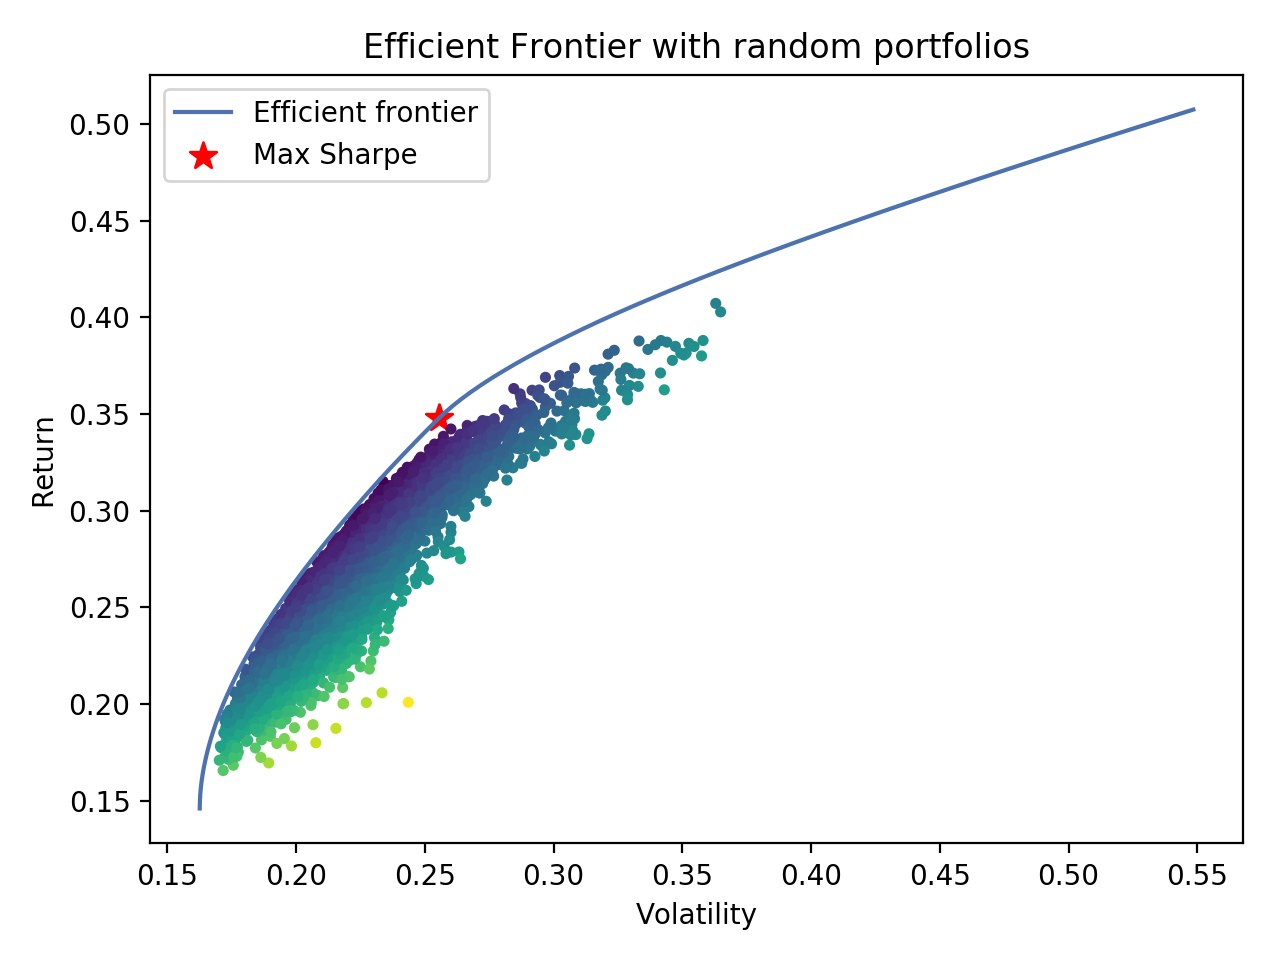
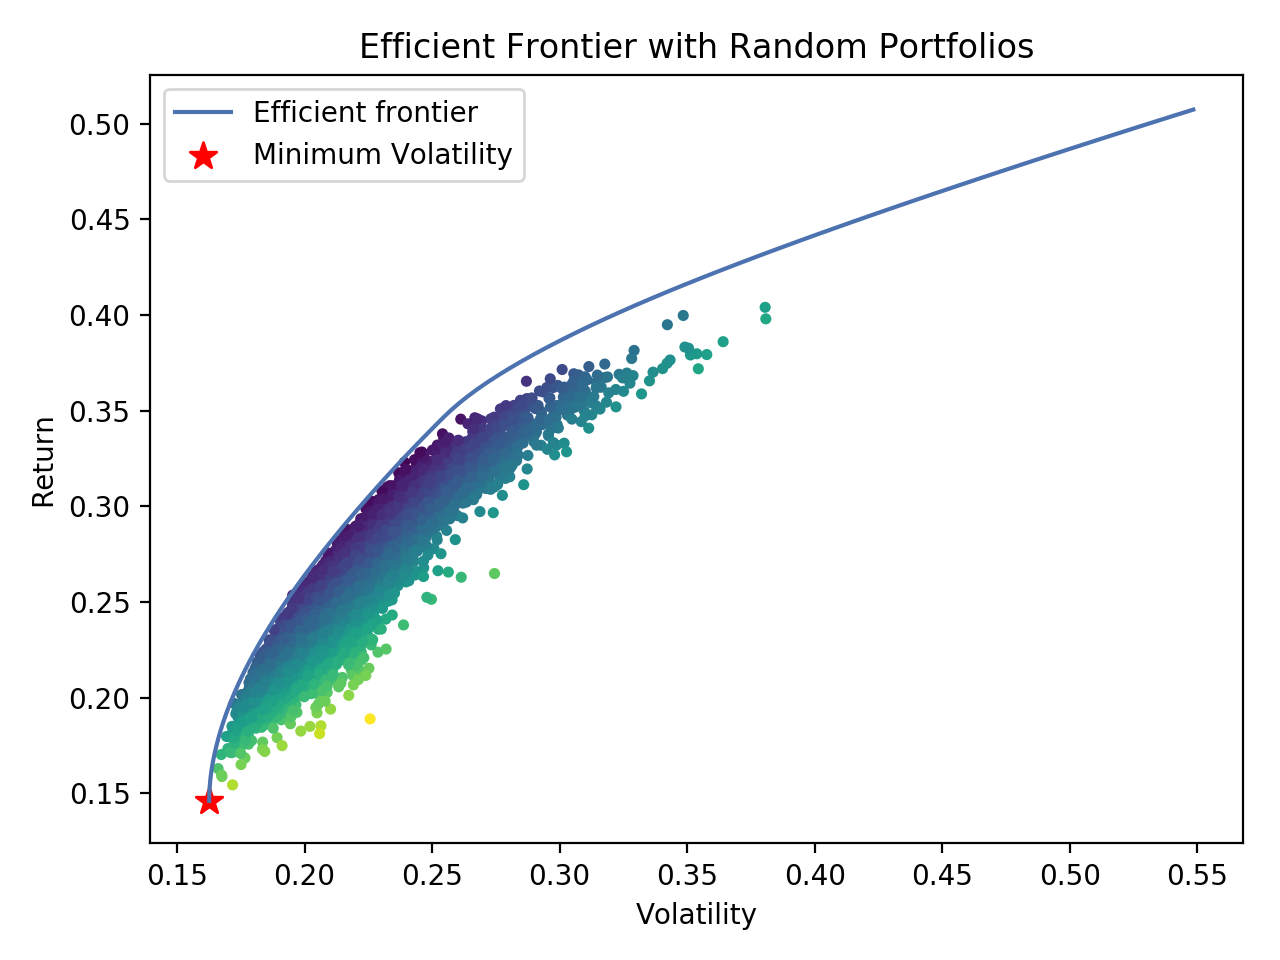
Updated weights using min volatility

diff --git a/stock_portfolio/efficient_frontier.py b/stock_portfolio/efficient_frontier.py
@@ -9,6 +9,9 @@ from pypfopt import objective_functions
 from pypfopt.discrete_allocation import DiscreteAllocation, get_latest_prices
 from pandas_datareader import data as pdr
 import yfinance as yf
+import sys
+sys.path.insert(0, "../datasets")
+import shift
 
 yf.pdr_override()
 import pandas as pd
@@ -16,16 +19,17 @@ stocks = "AAPL MSFT AMZN GOOGL FB TSLA BRK-A JPM V JNJ"
 
 
 def plot_ef(ef, method=None):
-    fig, ax = plt.subplots()
-    plotting.plot_efficient_frontier(ef, ax=ax)
+    # fig, ax = plt.subplots()
+    # plotting.plot_efficient_frontier(ef, ax=ax)
     ef.add_constraint(lambda w: w[0]+w[1]+w[2]+w[3]+w[4]+w[5]+w[6]+w[7]+w[8]+w[9] == 1)
-    weights = ef.max_sharpe()
+    ef.add_objective(objective_functions.L2_reg, gamma=0.1)
+    weights = ef.min_volatility()
     cleaned_weights = ef.clean_weights()
     print(cleaned_weights)
     optimal, volatility, _ = ef.portfolio_performance(verbose=True)
-    ax.plot(volatility, optimal, marker="*", label="optimal")
-    ax.legend()
-    plt.savefig("ef_{}.png".format(method))
+    # ax.plot(volatility, optimal, marker="*", label="optimal")
+    # ax.legend()
+    # plt.savefig("ef_{}.png".format(method))
     plt.show()
 
 def plot_covariance(S):
@@ -40,9 +44,9 @@ def random_portfolios(mu, S):
     plotting.plot_efficient_frontier(ef, ax=ax, show_assets=False)
 
     # Find the tangency portfolio
-    ef.max_sharpe()
+    ef.min_volatility()
     ret_tangent, std_tangent, _ = ef.portfolio_performance()
-    ax.scatter(std_tangent, ret_tangent, marker="*", s=100, c="r", label="Max Sharpe")
+    ax.scatter(std_tangent, ret_tangent, marker="*", s=100, c="r", label="Minimum Volatility")
 
     # Generate random portfolios
     n_samples = 10000
@@ -53,7 +57,7 @@ def random_portfolios(mu, S):
     ax.scatter(stds, rets, marker=".", c=sharpes, cmap="viridis_r")
 
     # Output
-    ax.set_title("Efficient Frontier with random portfolios")
+    ax.set_title("Efficient Frontier with Random Portfolios")
     ax.legend()
     plt.tight_layout()
     plt.savefig("ef_scatter.png", dpi=200)
@@ -70,6 +74,9 @@ def allocate(df, ef):
 def run(method):
     if method == "NN":
         df = pd.read_pickle("../NN/expected_returns_NN.pkl")
+        print(df)
+    elif method == "TS":
+        df = shift.run()
     else:
         #2019-12-12 to now
         df = pdr.get_data_yahoo(tickers=stocks, start="2014-01-01", end="2021-05-29")['Adj Close']
@@ -77,8 +84,9 @@ def run(method):
     mu = expected_returns.mean_historical_return(df)
     S = risk_models.sample_cov(df)
     ef = EfficientFrontier(mu, S)
-    plot_ef(ef, method=method)
-# plot_covariance(S)
-# random_portfolios(mu,S)
+    random_portfolios(mu,S)
+    # plot_ef(ef, method=method)
+    # plot_covariance(S)
+
 if __name__ == '__main__':
-    run("NN")
+    run(method=None)

diff --git a/datasets/shift.py b/datasets/shift.py
@@ -1,5 +1,7 @@
 import yfinance as yf
 import pandas as pd
+import sys
+sys.path.insert(0, "../")
 from datasets.linear_reg import *
 from datasets.logistic_reg import *
 from sklearn.linear_model import LinearRegression
@@ -100,7 +102,7 @@ def plot(stock_b, y_pred, time, stock_a_name, stock_b_name):
     plt.show()
 
 
-def main():
+def run():
     # stock_a, stock_b, stock_a_name, stock_b_name = compare_correlation()
     correlation_all_stock = compare_correlation()
     df_lst = []
@@ -114,18 +116,19 @@ def main():
         y_pred_logistic, df_logistic, score_logistic = logistic_predict(stock_a, stock_b)
 
         y_pred_linear = np.asarray(y_pred_linear).reshape(-1, 1)
-        print(y_pred_linear)
-        print(y_pred_linear.shape)
+        # print(y_pred_linear)
+        # print(y_pred_linear.shape)
         df_lst.append(y_pred_linear)
 
-        plot(stock_b, y_pred_linear, yf.download(tickers=stock_b_name, start="2014-01-01", end="2021-05-29").index, stock_a_name, stock_b_name)
-        print(stock_a_name, stock_b_name, "Linear Regression: ", y_pred_linear, score_linear)
-        print("Logistic Regression: ", y_pred_logistic, score_logistic)
+        # plot(stock_b, y_pred_linear, yf.download(tickers=stock_b_name, start="2014-01-01", end="2021-05-29").index, stock_a_name, stock_b_name)
+        # print(stock_a_name, stock_b_name, "Linear Regression: ", y_pred_linear, score_linear)
+        # print("Logistic Regression: ", y_pred_logistic, score_logistic)
         
     df = pd.DataFrame(np.hstack(tuple(df_lst)),
                           columns=["AAPL", "MSFT", "AMZN", "GOOGL", "FB", "TSLA", "BRK-A", "JPM", "V", "JNJ"])
     print(df)
+    return df
 
 
 if __name__ == '__main__':
-    main()
+    run()
